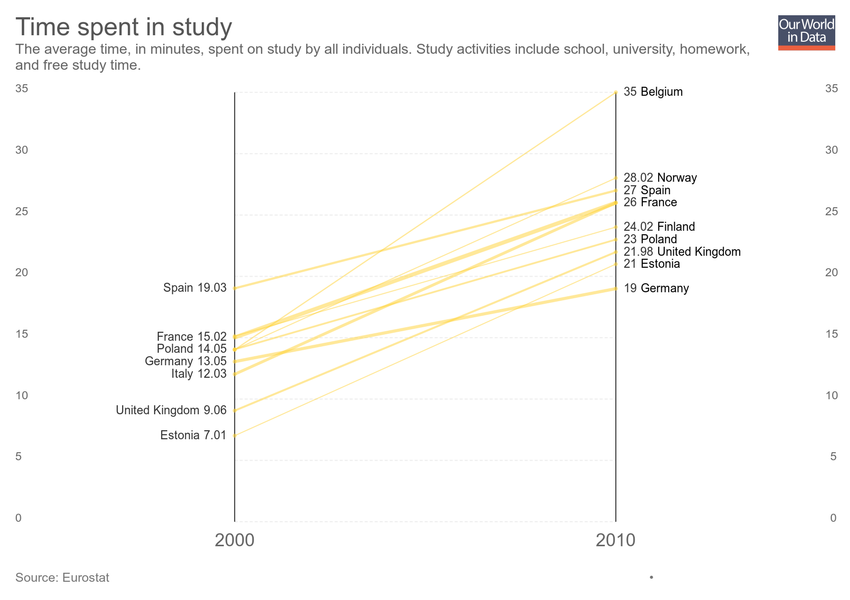
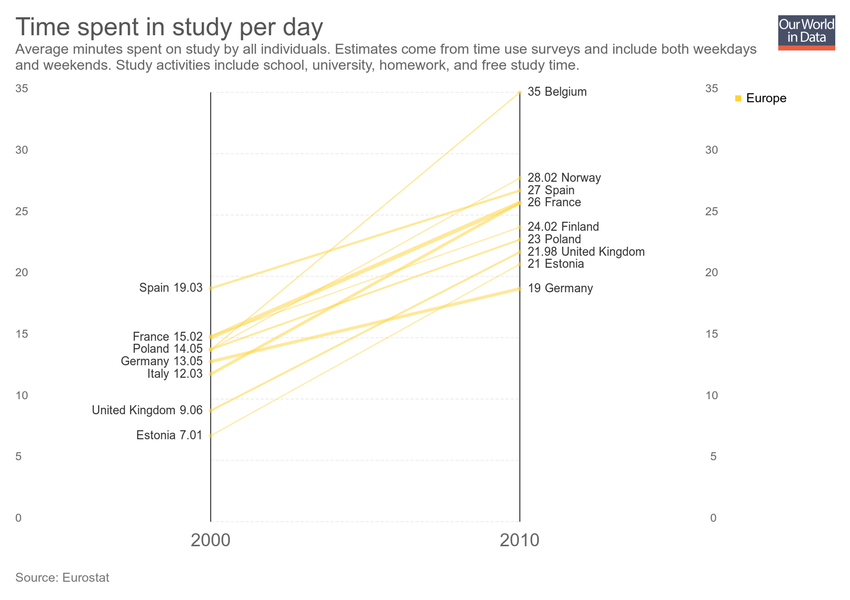
Updating chart time-spent-in-employment

diff --git a/grapher/time-spent-in-study.html b/grapher/time-spent-in-study.html
@@ -1,4 +1,4 @@
-<!doctype html><html><head><meta name="viewport" content="width=device-width, initial-scale=1" /><title>Time spent in study - Our World in Data</title><meta name="description" content="The average time, in minutes, spent on study by all individuals. Study activities include school, university, homework, and free study time." /><link rel="canonical" href="https://ourworldindata.org/grapher/time-spent-in-study" /><meta property="fb:app_id" content="1149943818390250" /><meta property="og:url" content="https://ourworldindata.org/grapher/time-spent-in-study" /><meta property="og:title" content="Time spent in study" /><meta property="og:description" content="The average time, in minutes, spent on study by all individuals. Study activities include school, university, homework, and free study time." /><meta property="og:image" content="https://ourworldindata.org/grapher/exports/time-spent-in-study.png?v=4" /><meta property="og:image:width" content="850" /><meta property="og:image:height" content="600" /><meta property="og:site_name" content="Our World in Data" /><meta name="twitter:card" content="summary_large_image" /><meta name="twitter:site" content="@OurWorldInData" /><meta name="twitter:creator" content="@OurWorldInData" /><meta name="twitter:title" content="Time spent in study" /><meta name="twitter:description" content="The average time, in minutes, spent on study by all individuals. Study activities include school, university, homework, and free study time." /><meta name="twitter:image" content="https://ourworldindata.org/grapher/exports/time-spent-in-study.png?v=4" /><style>
+<!doctype html><html><head><meta name="viewport" content="width=device-width, initial-scale=1" /><title>Time spent in study per day - Our World in Data</title><meta name="description" content="Average minutes spent on study by all individuals. Estimates come from time use surveys and include both weekdays and weekends. Study activities include school, university, homework, and free study time." /><link rel="canonical" href="https://ourworldindata.org/grapher/time-spent-in-study" /><meta property="fb:app_id" content="1149943818390250" /><meta property="og:url" content="https://ourworldindata.org/grapher/time-spent-in-study" /><meta property="og:title" content="Time spent in study per day" /><meta property="og:description" content="Average minutes spent on study by all individuals. Estimates come from time use surveys and include both weekdays and weekends. Study activities include school, university, homework, and free study time." /><meta property="og:image" content="https://ourworldindata.org/grapher/exports/time-spent-in-study.png?v=6" /><meta property="og:image:width" content="850" /><meta property="og:image:height" content="600" /><meta property="og:site_name" content="Our World in Data" /><meta name="twitter:card" content="summary_large_image" /><meta name="twitter:site" content="@OurWorldInData" /><meta name="twitter:creator" content="@OurWorldInData" /><meta name="twitter:title" content="Time spent in study per day" /><meta name="twitter:description" content="Average minutes spent on study by all individuals. Estimates come from time use surveys and include both weekdays and weekends. Study activities include school, university, homework, and free study time." /><meta name="twitter:image" content="https://ourworldindata.org/grapher/exports/time-spent-in-study.png?v=6" /><style>
         html, body {
             height: 100%;
             margin: 0;
@@ -20,8 +20,8 @@
         }
     </style><noscript><style>
                     figure { display: none !important; }
-                </style></noscript><link rel="stylesheet" href="https://ourworldindata.org/grapher/assets/commons.bundle.b9f051796dbbbb7e5139.css" /><link rel="preload" href="/grapher/data/variables/97626+72+123.json?v=4" as="fetch" crossorigin /></head><body class="singleChart"><figure data-grapher-src="/grapher/time-spent-in-study"></figure><noscript id="fallback"><img src="/grapher/exports/time-spent-in-study.svg" /><p>Interactive visualization requires JavaScript</p></noscript><script src="https://cdn.polyfill.io/v2/polyfill.min.js?features=es6,fetch"></script><script src="https://ourworldindata.org/grapher/assets/commons.bundle.b9f051796dbbbb7e5139.js"></script><script src="https://ourworldindata.org/grapher/assets/charts.bundle.b9f051796dbbbb7e5139.js"></script><script>
-        var jsonConfig = {"id":2833,"map":{"projection":"World","colorSchemeLabels":[],"colorSchemeValues":[],"customNumericColors":[],"customCategoryColors":{},"customCategoryLabels":{},"customHiddenCategories":{}},"tab":"chart","slug":"time-spent-in-study","type":"SlopeChart","title":"Time spent in study","xAxis":{"scaleType":"linear"},"yAxis":{"min":0,"scaleType":"linear"},"version":4,"subtitle":"The average time, in minutes, spent on study by all individuals. Study activities include school, university, homework, and free study time.","hasMapTab":false,"stackMode":"absolute","dimensions":[{"display":{},"property":"y","variableId":97626},{"display":{},"property":"size","variableId":72},{"display":{},"property":"color","variableId":123}],"hasChartTab":true,"isPublished":true,"selectedData":[]};
+                </style></noscript><link rel="stylesheet" href="https://ourworldindata.org/grapher/assets/commons.bundle.b9f051796dbbbb7e5139.css" /><link rel="preload" href="/grapher/data/variables/97626+72+123.json?v=6" as="fetch" crossorigin /></head><body class="singleChart"><figure data-grapher-src="/grapher/time-spent-in-study"></figure><noscript id="fallback"><img src="/grapher/exports/time-spent-in-study.svg" /><p>Interactive visualization requires JavaScript</p></noscript><script src="https://cdn.polyfill.io/v2/polyfill.min.js?features=es6,fetch"></script><script src="https://ourworldindata.org/grapher/assets/commons.bundle.b9f051796dbbbb7e5139.js"></script><script src="https://ourworldindata.org/grapher/assets/charts.bundle.b9f051796dbbbb7e5139.js"></script><script>
+        var jsonConfig = {"id":2833,"map":{"projection":"World","colorSchemeLabels":[],"colorSchemeValues":[],"customNumericColors":[],"customCategoryColors":{},"customCategoryLabels":{},"customHiddenCategories":{}},"tab":"chart","slug":"time-spent-in-study","type":"SlopeChart","title":"Time spent in study per day","xAxis":{"scaleType":"linear"},"yAxis":{"min":0,"scaleType":"linear"},"version":6,"subtitle":"Average minutes spent on study by all individuals. Estimates come from time use surveys and include both weekdays and weekends. Study activities include school, university, homework, and free study time.","hasMapTab":false,"stackMode":"absolute","dimensions":[{"display":{},"property":"y","variableId":97626},{"display":{},"property":"size","variableId":72},{"display":{},"property":"color","variableId":123}],"hasChartTab":true,"isPublished":true,"selectedData":[]};
         var figure = document.getElementsByTagName("figure")[0];
         try {
             window.App = {};

diff --git a/grapher/time-spent-in-employment.html b/grapher/time-spent-in-employment.html
@@ -1,4 +1,4 @@
-<!doctype html><html><head><meta name="viewport" content="width=device-width, initial-scale=1" /><title>Time spent in employment - Our World in Data</title><meta name="description" content="Average minutes spent in employment by all individuals. Estimates come from time use surveys and include both weekdays and weekends." /><link rel="canonical" href="https://ourworldindata.org/grapher/time-spent-in-employment" /><meta property="fb:app_id" content="1149943818390250" /><meta property="og:url" content="https://ourworldindata.org/grapher/time-spent-in-employment" /><meta property="og:title" content="Time spent in employment" /><meta property="og:description" content="Average minutes spent in employment by all individuals. Estimates come from time use surveys and include both weekdays and weekends." /><meta property="og:image" content="https://ourworldindata.org/grapher/exports/time-spent-in-employment.png?v=6" /><meta property="og:image:width" content="850" /><meta property="og:image:height" content="600" /><meta property="og:site_name" content="Our World in Data" /><meta name="twitter:card" content="summary_large_image" /><meta name="twitter:site" content="@OurWorldInData" /><meta name="twitter:creator" content="@OurWorldInData" /><meta name="twitter:title" content="Time spent in employment" /><meta name="twitter:description" content="Average minutes spent in employment by all individuals. Estimates come from time use surveys and include both weekdays and weekends." /><meta name="twitter:image" content="https://ourworldindata.org/grapher/exports/time-spent-in-employment.png?v=6" /><style>
+<!doctype html><html><head><meta name="viewport" content="width=device-width, initial-scale=1" /><title>Time spent in employment per day - Our World in Data</title><meta name="description" content="Average minutes spent in employment by all individuals. Estimates come from time use surveys and include both weekdays and weekends." /><link rel="canonical" href="https://ourworldindata.org/grapher/time-spent-in-employment" /><meta property="fb:app_id" content="1149943818390250" /><meta property="og:url" content="https://ourworldindata.org/grapher/time-spent-in-employment" /><meta property="og:title" content="Time spent in employment per day" /><meta property="og:description" content="Average minutes spent in employment by all individuals. Estimates come from time use surveys and include both weekdays and weekends." /><meta property="og:image" content="https://ourworldindata.org/grapher/exports/time-spent-in-employment.png?v=8" /><meta property="og:image:width" content="850" /><meta property="og:image:height" content="600" /><meta property="og:site_name" content="Our World in Data" /><meta name="twitter:card" content="summary_large_image" /><meta name="twitter:site" content="@OurWorldInData" /><meta name="twitter:creator" content="@OurWorldInData" /><meta name="twitter:title" content="Time spent in employment per day" /><meta name="twitter:description" content="Average minutes spent in employment by all individuals. Estimates come from time use surveys and include both weekdays and weekends." /><meta name="twitter:image" content="https://ourworldindata.org/grapher/exports/time-spent-in-employment.png?v=8" /><style>
         html, body {
             height: 100%;
             margin: 0;
@@ -20,8 +20,8 @@
         }
     </style><noscript><style>
                     figure { display: none !important; }
-                </style></noscript><link rel="stylesheet" href="https://ourworldindata.org/grapher/assets/commons.bundle.b9f051796dbbbb7e5139.css" /><link rel="preload" href="/grapher/data/variables/97625+123+72.json?v=6" as="fetch" crossorigin /></head><body class="singleChart"><figure data-grapher-src="/grapher/time-spent-in-employment"></figure><noscript id="fallback"><img src="/grapher/exports/time-spent-in-employment.svg" /><p>Interactive visualization requires JavaScript</p></noscript><script src="https://cdn.polyfill.io/v2/polyfill.min.js?features=es6,fetch"></script><script src="https://ourworldindata.org/grapher/assets/commons.bundle.b9f051796dbbbb7e5139.js"></script><script src="https://ourworldindata.org/grapher/assets/charts.bundle.b9f051796dbbbb7e5139.js"></script><script>
-        var jsonConfig = {"id":2832,"map":{"projection":"World","colorSchemeLabels":[],"colorSchemeValues":[],"customNumericColors":[],"customCategoryColors":{},"customCategoryLabels":{},"customHiddenCategories":{}},"tab":"chart","slug":"time-spent-in-employment","type":"SlopeChart","title":"Time spent in employment","xAxis":{"scaleType":"linear"},"yAxis":{"min":100,"scaleType":"linear"},"version":6,"subtitle":"Average minutes spent in employment by all individuals. Estimates come from time use surveys and include both weekdays and weekends.","hasMapTab":false,"stackMode":"absolute","dimensions":[{"display":{"shortUnit":""},"property":"y","variableId":97625},{"display":{},"property":"color","variableId":123},{"display":{},"property":"size","variableId":72}],"hasChartTab":true,"isPublished":true,"selectedData":[],"addCountryMode":"add-country"};
+                </style></noscript><link rel="stylesheet" href="https://ourworldindata.org/grapher/assets/commons.bundle.b9f051796dbbbb7e5139.css" /><link rel="preload" href="/grapher/data/variables/97625+123+72.json?v=8" as="fetch" crossorigin /></head><body class="singleChart"><figure data-grapher-src="/grapher/time-spent-in-employment"></figure><noscript id="fallback"><img src="/grapher/exports/time-spent-in-employment.svg" /><p>Interactive visualization requires JavaScript</p></noscript><script src="https://cdn.polyfill.io/v2/polyfill.min.js?features=es6,fetch"></script><script src="https://ourworldindata.org/grapher/assets/commons.bundle.b9f051796dbbbb7e5139.js"></script><script src="https://ourworldindata.org/grapher/assets/charts.bundle.b9f051796dbbbb7e5139.js"></script><script>
+        var jsonConfig = {"id":2832,"map":{"projection":"World","colorSchemeLabels":[],"colorSchemeValues":[],"customNumericColors":[],"customCategoryColors":{},"customCategoryLabels":{},"customHiddenCategories":{}},"tab":"chart","slug":"time-spent-in-employment","type":"SlopeChart","title":"Time spent in employment per day","xAxis":{"scaleType":"linear"},"yAxis":{"min":100,"scaleType":"linear"},"version":8,"subtitle":"Average minutes spent in employment by all individuals. Estimates come from time use surveys and include both weekdays and weekends.","hasMapTab":false,"stackMode":"absolute","dimensions":[{"display":{"shortUnit":""},"property":"y","variableId":97625},{"display":{},"property":"color","variableId":123},{"display":{},"property":"size","variableId":72}],"hasChartTab":true,"isPublished":true,"selectedData":[],"addCountryMode":"add-country"};
         var figure = document.getElementsByTagName("figure")[0];
         try {
             window.App = {};
